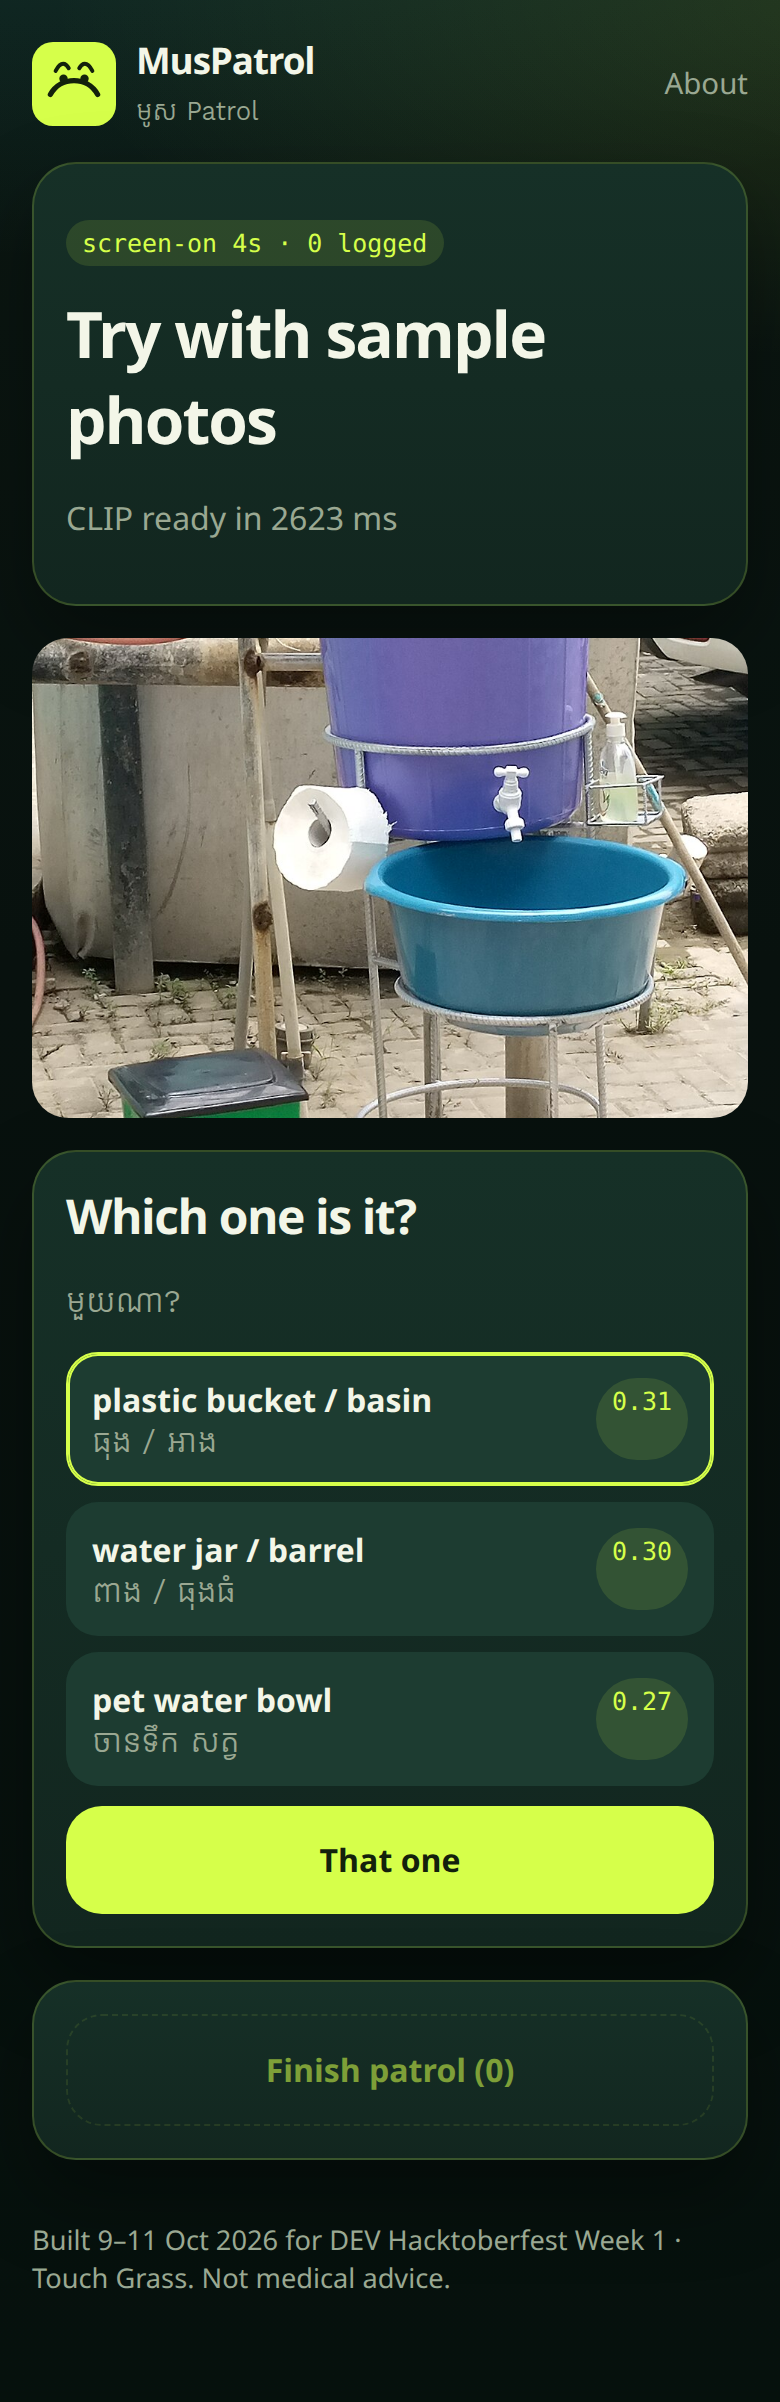
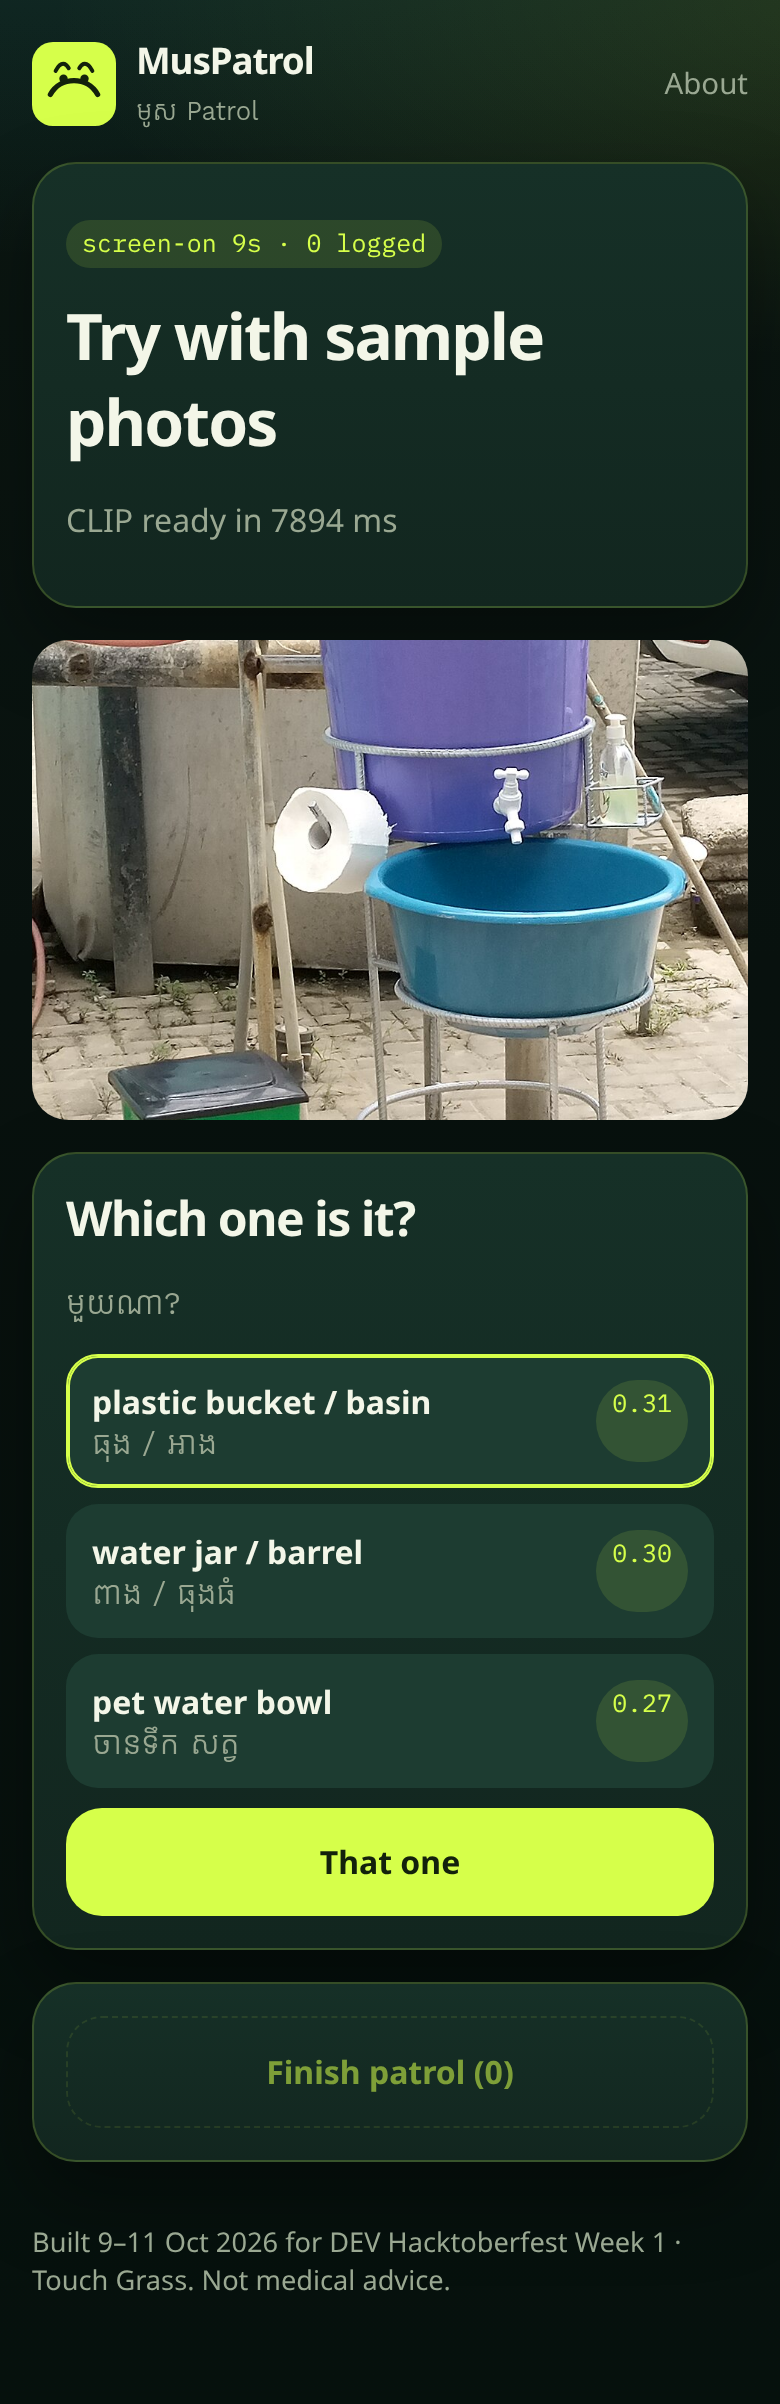
Docs: live URL (muspatrol.vercel.app), final DEV post, cover + demo screenshots
- README and docs/dev-post-draft.md: replace LIVE_DEMO_URL placeholder with https://muspatrol.vercel.app
- docs/dev-week1-post.md: publish-ready DEV post (published: false)
- docs/screenshots: regenerated, plus cover.png and demo-loop/demo-judge composites
- Gemma size label: ~2.0 GB (matches HEAD 2,003,697,664 bytes) instead of 1.91
- docs/numbers.md: 9 Oct re-run and live smoke test

diff --git a/src/app/screens/Report.tsx b/src/app/screens/Report.tsx
@@ -96,7 +96,7 @@ export function Report() {
       <section className="card">
         <h2>Gemma 4 E2B (optional)</h2>
         <p className="muted">
-          Apache-2.0, on-device, ~1.91 GB. Needs WebGPU. The model never decides the
+          Apache-2.0, on-device, ~2.0 GB download. Needs WebGPU. The model never decides the
           health action — if it invents a tire, we throw the text away.
         </p>
         {llm.state === "unsupported" || llm.state === "error" ? (

diff --git a/src/ml/llm.ts b/src/ml/llm.ts
@@ -5,7 +5,7 @@ import type { LlmStatus, PatrolItem, ReportResult } from "../types";
 
 export const GEMMA4_TASK_URL =
   "https://huggingface.co/litert-community/gemma-4-E2B-it-litert-lm/resolve/main/gemma-4-E2B-it-web.task";
-export const GEMMA4_SIZE_GB = 1.91;
+export const GEMMA4_SIZE_GB = 2.0;
 export const MEDIAPIPE_WASM =
   "https://cdn.jsdelivr.net/npm/@mediapipe/tasks-genai@0.10.29/wasm";
 

diff --git a/docs/numbers.md b/docs/numbers.md
@@ -70,3 +70,16 @@ That is why the picker exists. A judge can still complete the loop: tap the righ
 ## Open-Meteo
 
 Live fetch from `api.open-meteo.com` for 11.5564, 104.9282 (Phnom Penh). Cached in IndexedDB. Last-3h rain is summed from hourly `precipitation` in code (`rainLast3h`); unit-tested. A live millimetre reading depends on the day you open the app — we do not freeze a fake one here.
+
+## Re-run, 9 Oct 2026 (deploy day)
+
+Different agent VM (Linux, x86_64, no GPU, Node v20.19.2, Bun 1.4.2, Google Chrome headless, no WebGPU). Same code, same 10 photos.
+
+| What | Value | Where I read it |
+|---|---|---|
+| `bun run test` | 11 / 11 tests pass (3 files) | vitest output |
+| `bun run build` | precache 28 entries (1,096.50 KiB); same 26,861,777-byte ONNX Runtime WASM | Vite / workbox log |
+| Screenshots regenerated (`scripts/screenshots.mjs` vs local `vite preview`) | “CLIP ready in 7,894 ms”; `bucket.jpg` classify 726 ms | UI strings in `docs/screenshots/` |
+| Live smoke test against https://muspatrol.vercel.app (headless Chrome, judge mode, first sample) | “CLIP ready in 8,092 ms”; top-3 = bucket 0.31 / water jar 0.30 / pet bowl 0.27 → TIP + SCRUB; 0 console errors | puppeteer script, UI strings |
+
+CLIP load time depends heavily on network and CPU (the 8 Oct VM took 26–28 s; this one took ~8 s). None of this is a phone number.

diff --git a/README.md b/README.md
@@ -8,7 +8,7 @@ Built **9–11 Oct 2026** for [DEV Hacktoberfest Open-Source AI Challenge Week 1
 
 ## Live demo
 
-`<!-- LIVE_DEMO_URL -->`
+**https://muspatrol.vercel.app** (static build of `main`, deployed on Vercel)
 
 Judges: tap **Try with sample photos**. No camera, no account, ~30 seconds. Photos are Wikimedia Commons (credits on About + `NOTICE.md`).
 
@@ -30,7 +30,7 @@ bun run dev            # http://localhost:5173
 bun run build && bun run preview
 ```
 
-Static host: `dist/` on Vercel or Render. See `vercel.json` and `render.yaml`. No backend.
+Static host: `dist/` on Vercel (live: https://muspatrol.vercel.app) or Render. See `vercel.json` and `render.yaml`. No backend.
 
 Optional on a WebGPU laptop: open a finished patrol and tap **Load Gemma & rewrite**. First download is **2,003,697,664 bytes** (HEAD of `gemma-4-E2B-it-web.task`). This repo does not vendor that file.
 
@@ -57,6 +57,8 @@ Does not (yet):
 - ElevenLabs voice lines
 - Render llama.cpp second-look
 - Native-speaker Khmer sign-off — `docs/khmer-review.md`
+
+DEV post (final, unpublished copy): [`docs/dev-week1-post.md`](docs/dev-week1-post.md).
 
 Measured numbers (no invented field stats): [`docs/numbers.md`](docs/numbers.md).
 
